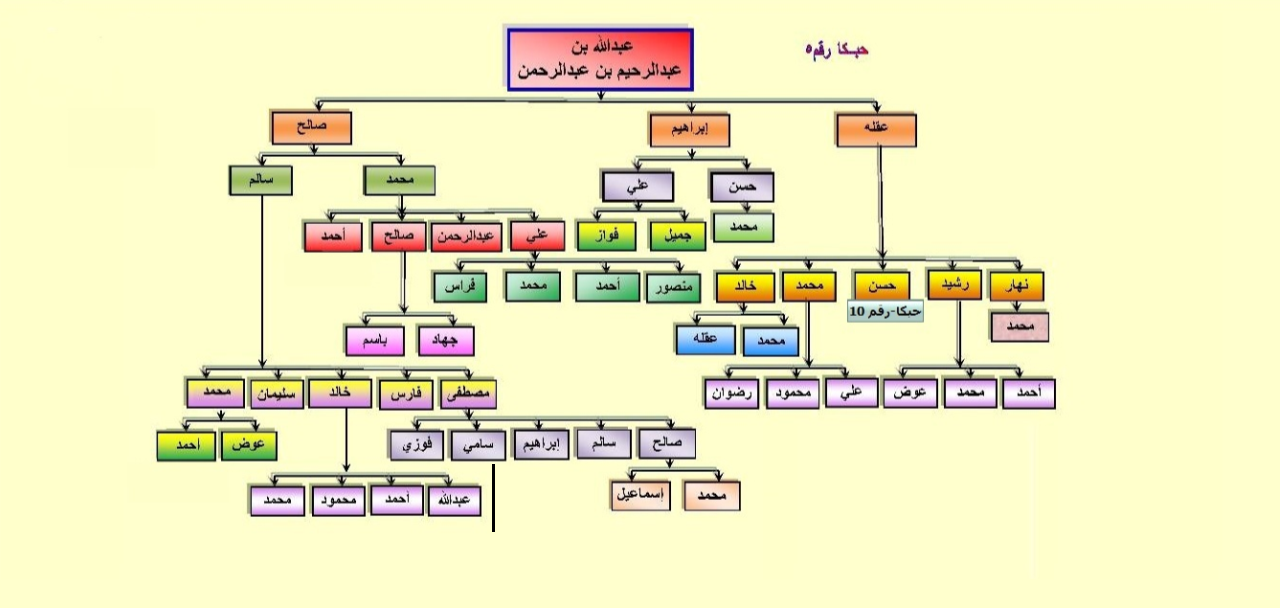
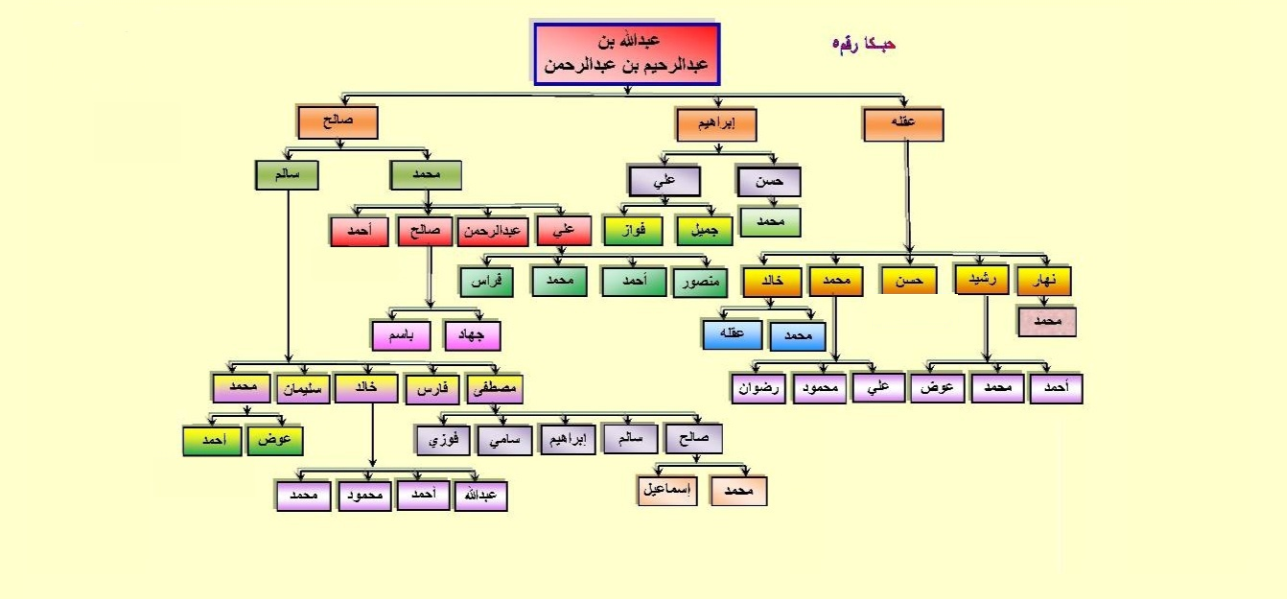
update

Changed region(s): [[0.125, 0.0301, 0.8438, 0.8715], [0.625, 0.0601, 0.7188, 0.1202]]

diff --git a/habaka-5.html b/habaka-5.html
@@ -30,27 +30,27 @@ function FP_getObjectByID(id,o) {//v1.0
 </script>
 </head>
 
-<body onload="FP_preloadImgs(/*url*/'button356.jpg',/*url*/'button357.jpg',/*url*/'buttonC22.jpg',/*url*/'buttonD15.jpg',/*url*/'buttonF15.jpg',/*url*/'button358.jpg',/*url*/'button359.jpg',/*url*/'button360.jpg',/*url*/'button1B4.jpg',/*url*/'button1C6.jpg',/*url*/'button1E1.jpg',/*url*/'button1F2.jpg')" style="background-color: #FFFFCD">
+<body onload="FP_preloadImgs(/*url*/'button363.jpg',/*url*/'button364.jpg',/*url*/'button365.jpg',/*url*/'buttonA27.jpg',/*url*/'buttonC23.jpg',/*url*/'buttonD16.jpg',/*url*/'button366.jpg',/*url*/'button367.jpg',/*url*/'button1E2.jpg',/*url*/'button1F3.jpg',/*url*/'button368.jpg',/*url*/'button369.jpg')" style="background-color: #FFFFCB">
 
-<div id="layer1" style="position: absolute; width: 100px; height: 27px; z-index: 1; left: 845px; top: 314px">
+<div id="layer1" style="position: absolute; width: 75px; height: 24px; z-index: 1; left: 881px; top: 307px">
 	<a href="habaka-10.html">
-	<img id="img1" alt="حبكا -10" height="20" onmousedown="FP_swapImg(1,0,/*id*/'img1',/*url*/'button357.jpg')" onmouseout="FP_swapImg(0,0,/*id*/'img1',/*url*/'button361.jpg')" onmouseover="FP_swapImg(1,0,/*id*/'img1',/*url*/'button356.jpg')" onmouseup="FP_swapImg(0,0,/*id*/'img1',/*url*/'button356.jpg')" src="button361.jpg" style="border: 0" width="100" /><!-- MSComment="ibutton" fp-style="fp-btn: Metal Capsule 6; fp-font-style: Bold" fp-title="حبكا -10" --></a></div>
-<div id="layer2" style="position: absolute; width: 100px; height: 30px; z-index: 2; left: 288px; top: 269px">
+	<img id="img1" alt="حبكا-10" height="15" onmousedown="FP_swapImg(1,0,/*id*/'img1',/*url*/'button364.jpg')" onmouseout="FP_swapImg(0,0,/*id*/'img1',/*url*/'button370.jpg')" onmouseover="FP_swapImg(1,0,/*id*/'img1',/*url*/'button363.jpg')" onmouseup="FP_swapImg(0,0,/*id*/'img1',/*url*/'button363.jpg')" src="button370.jpg" style="border: 0" width="77" /><!-- MSComment="ibutton" fp-style="fp-btn: Metal Capsule 6; fp-font-style: Bold" fp-title="حبكا-10" --></a></div>
+<div id="layer2" style="position: absolute; width: 83px; height: 20px; z-index: 2; left: 321px; top: 262px">
 	<a href="habaka-9.html">
-	<img id="img2" alt="حبكا-9" height="18" onmousedown="FP_swapImg(1,0,/*id*/'img2',/*url*/'buttonD15.jpg')" onmouseout="FP_swapImg(0,0,/*id*/'img2',/*url*/'buttonB20.jpg')" onmouseover="FP_swapImg(1,0,/*id*/'img2',/*url*/'buttonC22.jpg')" onmouseup="FP_swapImg(0,0,/*id*/'img2',/*url*/'buttonC22.jpg')" src="buttonB20.jpg" style="border: 0" width="90" /><!-- MSComment="ibutton" fp-style="fp-btn: Metal Capsule 6; fp-font-style: Bold" fp-title="حبكا-9" --></a></div>
-<div id="layer3" style="position: absolute; width: 100px; height: 30px; z-index: 3; left: 128px; top: 478px">
+	<img id="img2" alt="حبكا-9" height="17" onmousedown="FP_swapImg(1,0,/*id*/'img2',/*url*/'buttonA27.jpg')" onmouseout="FP_swapImg(0,0,/*id*/'img2',/*url*/'button371.jpg')" onmouseover="FP_swapImg(1,0,/*id*/'img2',/*url*/'button365.jpg')" onmouseup="FP_swapImg(0,0,/*id*/'img2',/*url*/'button365.jpg')" src="button371.jpg" style="border: 0" width="84" /><!-- MSComment="ibutton" fp-style="fp-btn: Metal Capsule 6; fp-font-style: Bold" fp-title="حبكا-9" --></a></div>
+<div id="layer3" style="position: absolute; width: 84px; height: 25px; z-index: 3; left: 170px; top: 472px">
 	<a href="habaka-11.html">
-	<img id="img3" alt="حبكا-11" height="20" onmousedown="FP_swapImg(1,0,/*id*/'img3',/*url*/'button358.jpg')" onmouseout="FP_swapImg(0,0,/*id*/'img3',/*url*/'buttonE10.jpg')" onmouseover="FP_swapImg(1,0,/*id*/'img3',/*url*/'buttonF15.jpg')" onmouseup="FP_swapImg(0,0,/*id*/'img3',/*url*/'buttonF15.jpg')" src="buttonE10.jpg" style="border: 0" width="100" /><!-- MSComment="ibutton" fp-style="fp-btn: Metal Capsule 6; fp-font-style: Bold" fp-title="حبكا-11" --></a></div>
-<div id="layer4" style="position: absolute; width: 72px; height: 19px; z-index: 4; left: 511px; top: 477px">
+	<img id="img3" alt="حبكا-11" height="17" onmousedown="FP_swapImg(1,0,/*id*/'img3',/*url*/'buttonD16.jpg')" onmouseout="FP_swapImg(0,0,/*id*/'img3',/*url*/'buttonB21.jpg')" onmouseover="FP_swapImg(1,0,/*id*/'img3',/*url*/'buttonC23.jpg')" onmouseup="FP_swapImg(0,0,/*id*/'img3',/*url*/'buttonC23.jpg')" src="buttonB21.jpg" style="border: 0" width="85" /><!-- MSComment="ibutton" fp-style="fp-btn: Metal Capsule 6; fp-font-style: Bold" fp-title="حبكا-11" --></a></div>
+<div id="layer4" style="position: absolute; width: 63px; height: 10px; z-index: 4; left: 549px; top: 480px">
 	<a href="habaka-12.html">
-	<img id="img4" alt="حبكا-12" height="16" onmousedown="FP_swapImg(1,0,/*id*/'img4',/*url*/'button360.jpg')" onmouseout="FP_swapImg(0,0,/*id*/'img4',/*url*/'button362.jpg')" onmouseover="FP_swapImg(1,0,/*id*/'img4',/*url*/'button359.jpg')" onmouseup="FP_swapImg(0,0,/*id*/'img4',/*url*/'button359.jpg')" src="button362.jpg" style="border: 0" width="80" /><!-- MSComment="ibutton" fp-style="fp-btn: Metal Capsule 6; fp-font-style: Bold" fp-title="حبكا-12" --></a></div>
-<div id="layer5" style="position: absolute; width: 100px; height: 23px; z-index: 5; left: 456px; top: 544px">
+	<img id="img4" alt="حبكا-12" height="14" onmousedown="FP_swapImg(1,0,/*id*/'img4',/*url*/'button367.jpg')" onmouseout="FP_swapImg(0,0,/*id*/'img4',/*url*/'button372.jpg')" onmouseover="FP_swapImg(1,0,/*id*/'img4',/*url*/'button366.jpg')" onmouseup="FP_swapImg(0,0,/*id*/'img4',/*url*/'button366.jpg')" src="button372.jpg" style="border: 0" width="70" /><!-- MSComment="ibutton" fp-style="fp-btn: Metal Capsule 6; fp-font-style: Bold; fp-font-size: 8" fp-title="حبكا-12" --></a></div>
+<div id="layer5" style="position: absolute; width: 71px; height: 15px; z-index: 5; left: 484px; top: 468px">
 	<a href="habaka-13.html">
-	<img id="img5" alt="حبكا-13" height="18" onmousedown="FP_swapImg(1,0,/*id*/'img5',/*url*/'button1C6.jpg')" onmouseout="FP_swapImg(0,0,/*id*/'img5',/*url*/'button1A4.jpg')" onmouseover="FP_swapImg(1,0,/*id*/'img5',/*url*/'button1B4.jpg')" onmouseup="FP_swapImg(0,0,/*id*/'img5',/*url*/'button1B4.jpg')" src="button1A4.jpg" style="border: 0" width="90" /><!-- MSComment="ibutton" fp-style="fp-btn: Metal Capsule 6; fp-font-style: Bold" fp-title="حبكا-13" --></a></div>
-<div id="layer6" style="position: absolute; width: 119px; height: 43px; z-index: 6; left: 33px; top: 29px">
+	<img id="img5" alt="حبكا-13" height="13" onmousedown="FP_swapImg(1,0,/*id*/'img5',/*url*/'button1F3.jpg')" onmouseout="FP_swapImg(0,0,/*id*/'img5',/*url*/'button1D4.jpg')" onmouseover="FP_swapImg(1,0,/*id*/'img5',/*url*/'button1E2.jpg')" onmouseup="FP_swapImg(0,0,/*id*/'img5',/*url*/'button1E2.jpg')" src="button1D4.jpg" style="border: 0" width="65" /><!-- MSComment="ibutton" fp-style="fp-btn: Metal Capsule 6; fp-font-style: Bold; fp-font-size: 8" fp-title="حبكا-13" --></a></div>
+<div id="layer6" style="position: absolute; width: 111px; height: 35px; z-index: 6; left: 23px; top: 11px">
 	<a href="index.html">
-	<img id="img6" alt="الصفحة الرئيسية" height="23" onmousedown="FP_swapImg(1,0,/*id*/'img6',/*url*/'button1F2.jpg')" onmouseout="FP_swapImg(0,0,/*id*/'img6',/*url*/'button1D3.jpg')" onmouseover="FP_swapImg(1,0,/*id*/'img6',/*url*/'button1E1.jpg')" onmouseup="FP_swapImg(0,0,/*id*/'img6',/*url*/'button1E1.jpg')" src="button1D3.jpg" style="border: 0" width="116" /><!-- MSComment="ibutton" fp-style="fp-btn: Metal Capsule 3; fp-font-style: Bold" fp-title="الصفحة الرئيسية" --></a></div>
-<img alt="" height="608" src="habaka-5.PNG" width="1280" />
+	<img id="img6" alt="الصفحة الرئيسية" height="23" onmousedown="FP_swapImg(1,0,/*id*/'img6',/*url*/'button369.jpg')" onmouseout="FP_swapImg(0,0,/*id*/'img6',/*url*/'button373.jpg')" onmouseover="FP_swapImg(1,0,/*id*/'img6',/*url*/'button368.jpg')" onmouseup="FP_swapImg(0,0,/*id*/'img6',/*url*/'button368.jpg')" src="button373.jpg" style="border: 0" width="113" /><!-- MSComment="ibutton" fp-style="fp-btn: Metal Capsule 3; fp-font-style: Bold" fp-title="الصفحة الرئيسية" --></a></div>
+<img alt="" height="599" src="habaka-5.png" width="1287" />
 
 </body>
 
